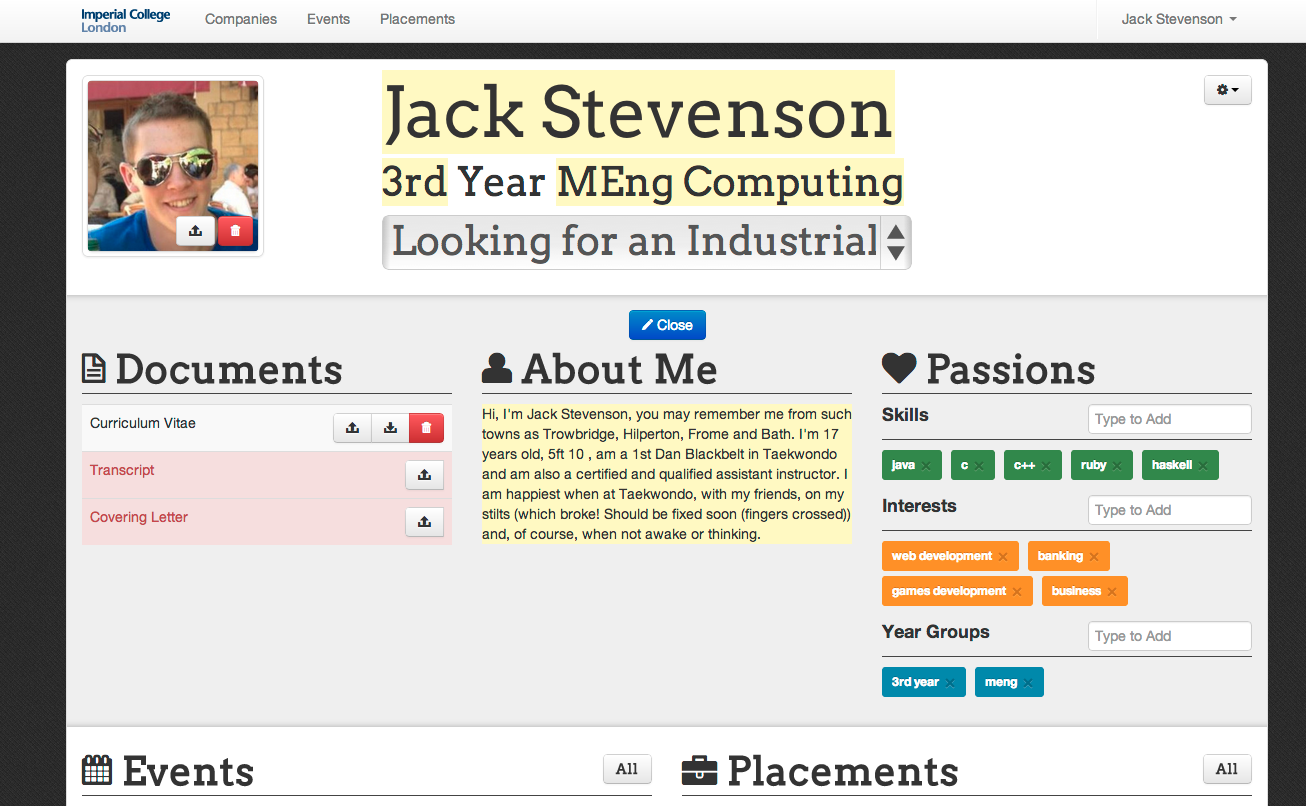
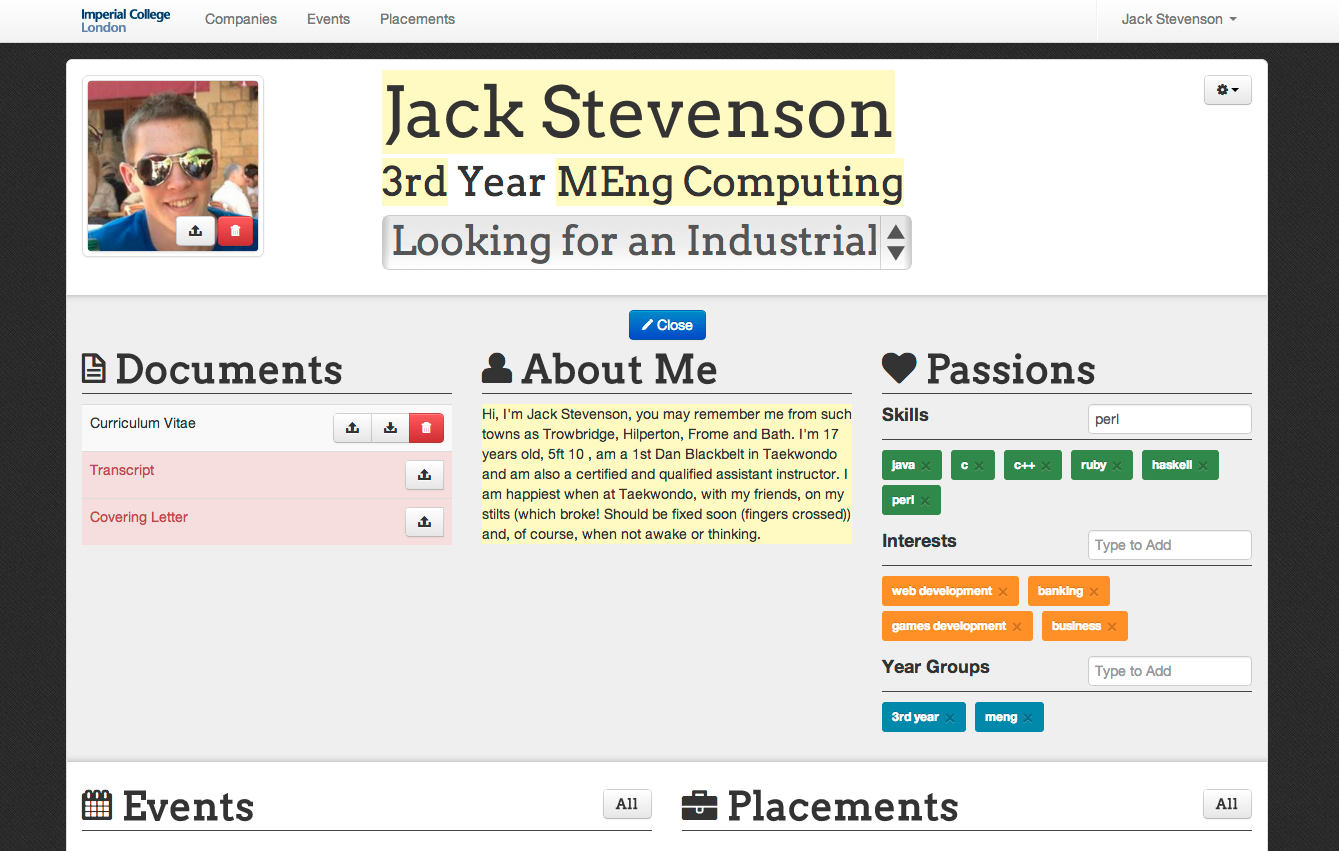
Add company user profile, needs pics and a bit more editing

Changed region(s): [[0.0, 0.0, 1.0, 1.0], [0.4594, 0.8995, 0.7351, 0.9926], [0.0306, 0.8995, 0.2144, 0.9926]]

diff --git a/user_experiences/company.tex b/user_experiences/company.tex
@@ -1,1 +1,37 @@
 \subsection{Company}
+Meanwhile companies can also access the site to gain access to students. For example a recruiter from Netcraft, Sally, wishes to sign up in order to find students for placements.
+  \subsubsection{Sign up}
+    If Netcraft had not yet registered as a company, then the Sally must sign up on Netcrafts behalf, which is very similar to the student signup page.
+    Since Netcraft already exists then Sally must request that another admininistrator adds her by signing in and clicking on the new administrator button.
+
+  \subsubsection{Contacts}
+    Sally decides that she wishes to be contacted by students regarding job oppourtunities so adds her details to the company contacts in the top left hand corner. This very nicely comes up with an inplace form for Sally to fill out. However since Netcraft already has many company contacts she does not automatically appear at the top of the list. 
+    %TODO Sally is alerted by tooltip taht she can reorder company contacts.
+    She then clicks on all contacts and drags herself up to the top of the list in order to be displayed, when returning to the page she now notices that she's top of the list.
+    Students viewing this page can then email any of the contacts since they must disclose their email addresses.
+
+  \subsection{Events and Placements}
+    Sally decides that it might be a good idea to post that Netcraft is offering six month industrial placements and so clicks on the new placement button. 
+    She receives important notices from the departments she's registered to that she reads and makes note of and then procedes to create the placement which once submitted will be approved via a department admin before shown on their site.
+    Similarly Sally can do the exact same thing with events.
+  
+  \subsection{Students}
+    After creating placements and events Sally decides she wants to browse students to find exceptional candidates she can contact herself. She clicks on students on the navigation bar and is greeted by a list of students. Note that any students who have decided to black Netcraft will never appear in this list, nor will deactivated students.
+    %TODO MAKE SURE FILTERING IS IMPLEMENTED, and JACK has Perl as a skill
+    Since she knows Netcraft will be recruiting for Perl developers, she specifically types Perl into the skills filter
+    and filters the list down to the students who have it as a skill.
+    %TODO print screen
+    She can then browse their profiles, which is a reduced version of the student view. Liking what she see's Sally can then choose to download Jack's CV to her computer or view it online with the preview icon. 
+
+    %TODO CLICK ON MAIL ICON
+    Liking what she sees Sally then chooses to invite Jack to interview, by clicking on the contact student button. She then sends an email from her account to his address which he can reply to if he wants. 
+
+    \includegraphics[scale=0.3]{images/user_experiences/company/jack_profile}
+
+  \subsection{Emails}
+    Being a member of the Corporate Partnership Program also entitles Netcraft to be able to contact a departments students via email. Sally can create emails to inform students of exciting scholarships Netcraft are offering, or news about the company.
+
+    ****************** TODO ******************
+    Write about an email!
+
+    %TODO A little more
